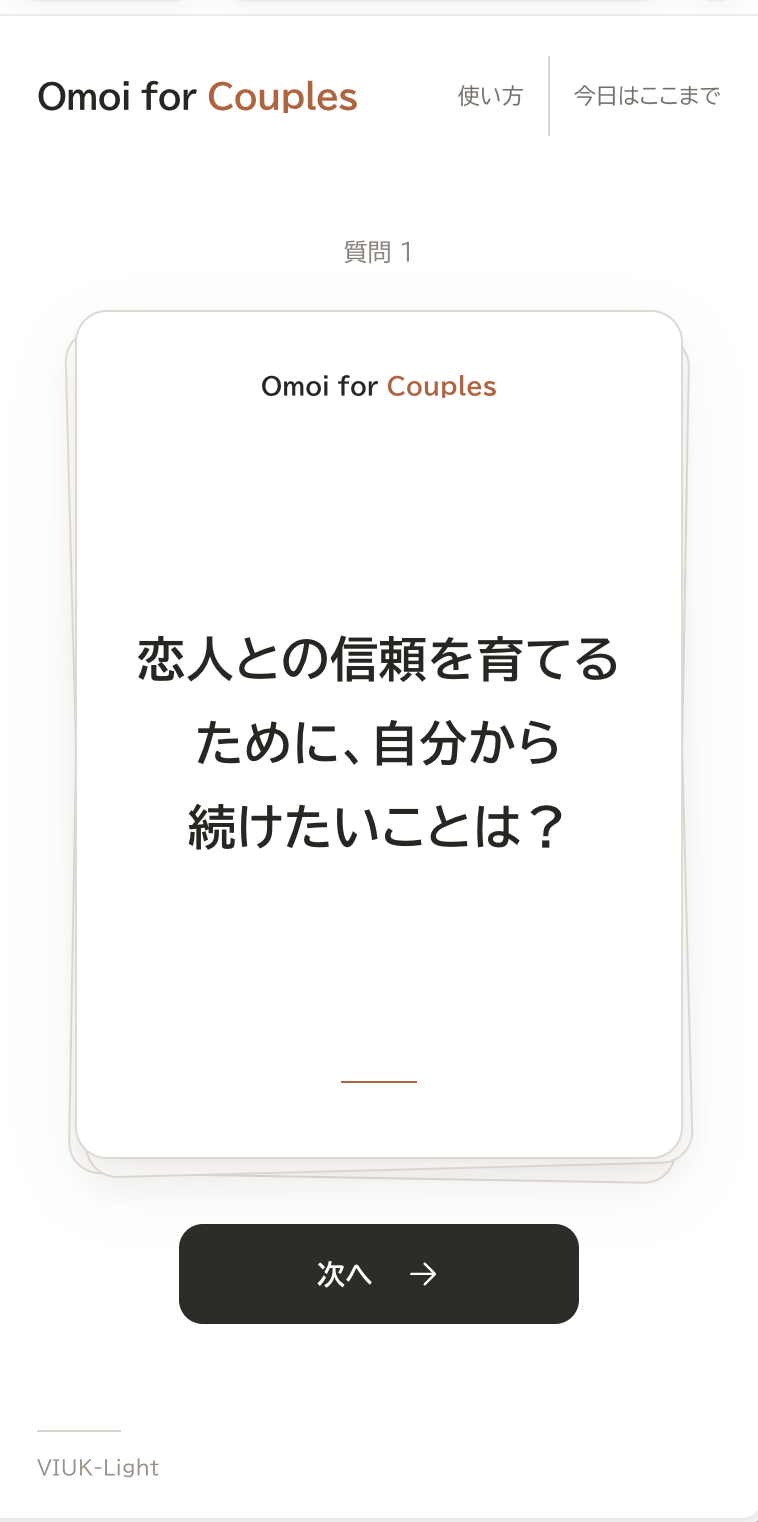
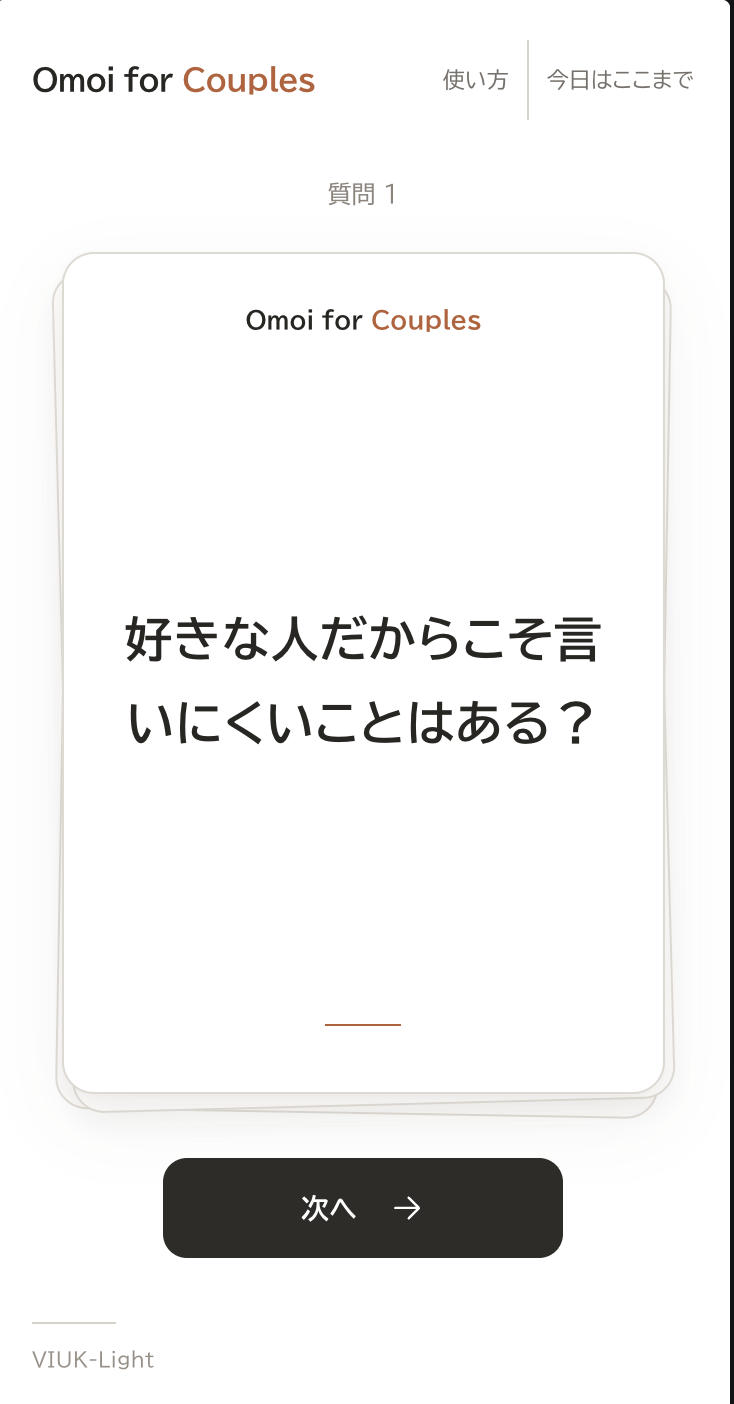
UIの改善

diff --git a/omoi-for.html b/omoi-for.html
@@ -14,7 +14,7 @@
 
     <link rel="stylesheet" href="interior.css?v=20261015-ud-font" />
     <link rel="stylesheet" href="site-motion.css?v=20261016-motion-2">
-    <link rel="stylesheet" href="omoi-for.css?v=20261024-series-colors-2">
+    <link rel="stylesheet" href="omoi-for.css?v=20261024-series-text-1">
     <link rel="stylesheet" href="omoi-for-screens.css?v=20261017-screens">
     <link rel="stylesheet" href="site-nav.css?v=20261017-ja-1">
   </head>
@@ -55,24 +55,17 @@
           <figcaption class="for-deck-caption">気になるシリーズを選ぶ</figcaption>
         </figure>
       </section>
-      <nav class="project-subnav" aria-label="Omoi for Seriesプロジェクトナビゲーション"><a aria-current="page" href="omoi-for.html">概要</a><a href="#series">シリーズ</a><a href="#experience">カードの楽しみ方</a><a href="#flow">使い方</a><a href="#difference">Omoiとの違い</a><a href="omoi-for-docs.html">ドキュメント</a></nav>
+      <nav class="project-subnav" aria-label="Omoi for Seriesプロジェクトナビゲーション"><a aria-current="page" href="omoi-for.html">概要</a><a href="#series">シリーズ</a><a href="#difference">Omoiとの違い</a><a href="omoi-for-docs.html">ドキュメント</a></nav>
 
       <section class="for-section for-showcase for-series-section" id="series" aria-labelledby="for-series-title">
         <header class="section-header">
           <h2 id="for-series-title">あなたに合ったシリーズを選ぶ</h2>
         </header>
-        <nav class="for-series-links" aria-label="各シリーズの特設ページ">
-<a data-series="couples" href="omoi-for-couples.html"><strong>Couples</strong><span>カップル・パートナー</span><span class="for-series-link-label">特設ページへ <span aria-hidden="true">→</span></span></a>
-<a data-series="family" href="omoi-for-family.html"><strong>Family</strong><span>ファミリー・家族向け</span><span class="for-series-link-label">特設ページへ <span aria-hidden="true">→</span></span></a>
-<a data-series="friends" href="omoi-for-friends.html"><strong>Friends</strong><span>友だち同士で</span><span class="for-series-link-label">特設ページへ <span aria-hidden="true">→</span></span></a>
-<a data-series="adults" href="omoi-for-adults.html"><strong>Adults</strong><span>18歳以上向け</span><span class="for-series-link-label">特設ページへ <span aria-hidden="true">→</span></span></a>
-<a data-series="self-care" href="omoi-for-self-care.html"><strong>Self-Care</strong><span>ひとりで振り返る</span><span class="for-series-link-label">特設ページへ <span aria-hidden="true">→</span></span></a>
-</nav>
-        <nav class="for-series-picker" data-for-picker aria-label="シリーズを選ぶ"><a href="#for-series-couples" id="for-tab-couples" data-for-tab data-series="couples" class="is-selected"><span class="for-series-mini" aria-hidden="true"><i></i><b>Omoi</b></span><span>Couples</span><small></small></a>
-<a href="#for-series-family" id="for-tab-family" data-for-tab data-series="family" class=""><span class="for-series-mini" aria-hidden="true"><i></i><b>Omoi</b></span><span>Family</span><small></small></a>
-<a href="#for-series-friends" id="for-tab-friends" data-for-tab data-series="friends" class=""><span class="for-series-mini" aria-hidden="true"><i></i><b>Omoi</b></span><span>Friends</span><small></small></a>
-<a href="#for-series-adults" id="for-tab-adults" data-for-tab data-series="adults" class=""><span class="for-series-mini" aria-hidden="true"><i></i><b>Omoi</b></span><span>Adults</span><small>18歳以上向け</small></a>
-<a href="#for-series-self-care" id="for-tab-self-care" data-for-tab data-series="self-care" class=""><span class="for-series-mini" aria-hidden="true"><i></i><b>Omoi</b></span><span>Self-Care</span><small></small></a></nav>
+        <nav class="for-series-picker" data-for-picker aria-label="シリーズを選ぶ"><a href="#for-series-couples" id="for-tab-couples" data-for-tab data-series="couples" class="is-selected"><span>Couples</span><small></small></a>
+<a href="#for-series-family" id="for-tab-family" data-for-tab data-series="family" class=""><span>Family</span><small></small></a>
+<a href="#for-series-friends" id="for-tab-friends" data-for-tab data-series="friends" class=""><span>Friends</span><small></small></a>
+<a href="#for-series-adults" id="for-tab-adults" data-for-tab data-series="adults" class=""><span>Adults</span><small>18歳以上向け</small></a>
+<a href="#for-series-self-care" id="for-tab-self-care" data-for-tab data-series="self-care" class=""><span>Self-Care</span><small></small></a></nav>
         <div class="for-series-panels" data-for-reveal>
           <article id="for-series-couples" class="for-series-panel" data-for-panel data-series="couples" tabindex="0">
             <div class="for-panel-content">
@@ -165,7 +158,6 @@
             </div>
           </article>
         </div>
-        <p class="for-dataset-note">主質問は5シリーズで706問。2026年10月17日に公開版を確認しています。裏面の追加の問いは、この件数に含めていません。</p>
       </section>
 
       <section class="project-overview for-difference" id="difference">
@@ -175,55 +167,9 @@
         <div class="project-overview-copy">
           <p class="lead-copy">Omoi for Seriesは、相手との会話やひとりでの振り返りを、質問カードから始めるWebシリーズです。</p>
           <p>既存のOmoiとは、実装・質問データ・内部のLevel定義が異なります。画面ではLite / Deepと通常 / 深掘りを選びます。</p><a class="text-link" href="omoi-for-details.html">設計を詳しく見る<span class="for-arrow" aria-hidden="true">→</span></a></div>
-      </section>
+        </section>
 
-      <section class="for-experience" id="experience" aria-labelledby="for-experience-title">
-        <div class="for-experience-copy">
-          <h2 id="for-experience-title">質問の内容と、<br>進め方を選ぶ。</h2>
-          <div class="for-mode-controls">
-            <fieldset class="for-mode-group">
-              <legend>質問の踏み込み度</legend>
-              <div class="for-segment"><button type="button" data-for-intensity="lite" aria-pressed="true">Lite</button><button type="button" data-for-intensity="deep" aria-pressed="false">Deep</button></div>
-            </fieldset>
-            <fieldset class="for-mode-group">
-              <legend>会話のスタイル</legend>
-              <div class="for-segment"><button type="button" data-for-style="normal" aria-pressed="false">通常</button><button type="button" data-for-style="deep" aria-pressed="true">深掘り</button></div>
-            </fieldset>
-          </div>
-          <p class="for-static-note">Lite / Deepは質問の踏み込み度、通常 / 深掘りは追加の問いの表示方法です。ふたつを別々に選べます。</p>
-          <p class="for-demo-help" data-for-demo-help>気軽な問いにも、もう一つの視点を。</p>
-        </div>
-        <div class="for-demo-visual" data-for-reveal>
-          <div class="for-demo-scene" aria-hidden="true">
-            <div class="for-demo-preview-back"><span>＋</span><small>追加の問い</small></div>
-            <div class="for-demo-card" data-for-demo-card>
-              <div class="for-demo-face for-demo-front for-cover"><span class="for-cover-brand">Omoi for</span><span class="for-cover-name" data-for-current-name>Couples</span><svg class="for-cover-rings" viewBox="0 0 130 170" aria-hidden="true"><circle cx="47" cy="48" r="40"/><circle cx="82" cy="73" r="40"/><path d="M65 124v46"/></svg><span class="for-cover-age" data-for-demo-intensity-label>Lite</span></div>
-              <div class="for-demo-face for-demo-back"><span class="for-plus">＋</span><p>追加の問い</p>
-              </div>
-            </div>
-          </div>
-<button type="button" class="for-demo-flip" data-for-flip aria-pressed="false" aria-describedby="for-demo-status"><span data-for-flip-label>カードをめくる</span><span aria-hidden="true">↗</span></button>
-<p class="for-demo-note">カードの動きのイメージ</p>
-          <p class="for-demo-status" id="for-demo-status" data-for-demo-status role="status">Lite・深掘り / 表面</p>
-        </div>
-      </section>
 
-      <section class="for-flow-section" id="flow" aria-labelledby="for-flow-title">
-        <div class="section-header">
-          <h2 id="for-flow-title">3ステップで始める</h2>
-        </div>
-        <ol class="for-flow-list">
-          <li><span>01</span><div><strong>シリーズを選ぶ</strong><p>話す相手や、ひとりで振り返る目的に合ったシリーズを選びます。</p>
-            </div>
-          </li>
-          <li><span>02</span><div><strong>内容と進め方を選ぶ</strong><p>Lite / Deepで質問の踏み込み度を、通常 / 深掘りで追加の問いの表示を選びます。</p>
-            </div>
-          </li>
-          <li><span>03</span><div><strong>カードを一枚ずつ進める</strong><p>「次へ」で進みます。答えずに進むことも、「今日はここまで」で終えることもできます。</p>
-            </div>
-          </li>
-        </ol><a class="text-link" href="https://omoi-for.viuk-light.org/howto.html">使い方を詳しく見る<span class="for-arrow" aria-hidden="true">→</span></a>
-</section>
 
       <section class="product-resources">
         <div>
@@ -259,7 +205,7 @@
 
     </footer>
   <script defer src="site-nav.js?v=20261017-ja-1"></script>
-  <script defer src="omoi-for.js?v=20261017-screens"></script>
+  <script defer src="omoi-for.js?v=20261024-subnav-active-1"></script>
 <script defer src="site-motion.js?v=20261016-motion-2"></script>
 </body>
 </html>

diff --git a/omoi-for.css b/omoi-for.css
@@ -99,6 +99,11 @@
 .for-deck-card:focus-visible { z-index: 20; outline: 3px solid var(--for-deep); outline-offset: 8px; }
 .for-deck-caption { text-align: center; color: var(--muted); font-size: 11px; margin-top: 6px; }
 .omoi-for-page .project-subnav { justify-content: center; gap: 14px 36px; padding-block: 16px; }
+.omoi-for-page .project-subnav a[aria-current] {
+  color: var(--accent);
+  font-weight: 700;
+  text-decoration-thickness: 2px;
+}
 .for-section { padding-block: 100px; }
 .omoi-for-page .for-section > .section-header { justify-content: center; text-align: center; margin-bottom: 42px; }
 .omoi-for-page .for-section > .section-header h2 { font-size: clamp(30px, 3.7vw, 54px); letter-spacing: -.035em; }
@@ -126,7 +131,7 @@
   display: flex;
   flex-direction: column;
   align-items: center;
-  gap: 16px;
+  gap: 4px;
   padding: 22px 8px 26px;
   min-width: 0;
   text-decoration: none;
@@ -147,36 +152,6 @@
 }
 .for-series-picker a.is-selected::after { transform: scaleX(1); }
 .for-series-picker small { font-size: 11px; color: var(--muted); min-height: 15px; }
-.for-series-mini {
-  position: relative;
-  display: block;
-  flex: none;
-  width: 60px;
-  height: 94px;
-  border: 1px solid #e4e4e1;
-  border-radius: 3px;
-  background: #fff;
-  box-shadow: 3px 3px 0 #e8e7e4, 0 8px 14px -7px #20334444;
-  transition: border-color .3s ease;
-}
-.for-series-picker a::before {
-  content: "";
-  position: absolute;
-  left: 50%;
-  top: 69px;
-  width: 130px;
-  height: 130px;
-  background: var(--for-tint);
-  border-radius: 50%;
-  z-index: -1;
-  transform: translate(-50%, -50%) scale(.5);
-  opacity: 0;
-  transition: opacity .4s ease, transform .6s var(--motion-ease);
-}
-.for-series-picker a.is-selected::before { opacity: 1; transform: translate(-50%, -50%) scale(1); }
-.for-series-picker a.is-selected .for-series-mini { border-color: var(--for-color); }
-.for-series-mini b { position: absolute; inset: 0; display: grid; place-items: center; font-size: 9px; font-weight: 400; color: var(--for-deep); }
-.for-series-mini i { position: absolute; inset: 7px; border: 1px solid var(--for-color); border-radius: 25% 65% 30% 60%; opacity: .75; }
 .for-series-panel {
   display: grid;
   grid-template-columns: 1fr 1fr;
@@ -187,6 +162,7 @@
   border-bottom: 1px solid var(--line);
   scroll-margin-top: calc(var(--motion-nav-height) + 28px);
 }
+.for-series-panel[hidden] { display: none; }
 .for-enhanced .for-series-panel { border-bottom: 0; }
 .for-series-panel .for-panel-brand { margin-bottom: 0; font-size: 23px; letter-spacing: .01em; }
 .for-series-panel h3 {
@@ -340,7 +316,6 @@
 }
 @media (hover: hover) and (pointer: fine) and (prefers-reduced-motion: no-preference) {
   .motion-ready:not(.motion-paused):not(.motion-reduced) .for-deck-card:hover { --card-lift: -28px; z-index: 15; }
-  .for-series-picker a:hover .for-series-mini { border-color: var(--for-deep); }
 }
 @media (max-width: 1100px) {
   .for-card-deck { --for-spread: 44px; height: 520px; }
@@ -360,9 +335,6 @@
   .for-section { padding-block: 64px; }
   .for-series-picker { display: flex; overflow-x: auto; gap: 14px; scroll-snap-type: x proximity; padding-top: 10px; }
   .for-series-picker a { flex: 0 0 104px; scroll-snap-align: center; font-size: 17px; }
-  .for-series-mini { width: 48px; height: 74px; }
-  .for-series-picker a::before { top: 59px; width: 112px; height: 112px; }
-  .for-series-mini b { font-size: 8px; }
   .for-series-panel { min-height: auto; gap: 28px; padding-block: 48px; }
   .for-series-panel h3 { font-size: clamp(38px, 7vw, 60px); }
   .for-panel-catch { font-size: 24px; }
@@ -389,7 +361,7 @@
   .for-cover-age { font-size: 9px; }
   .for-section > .section-header h2 { font-size: 29px; }
   .for-series-picker { gap: 8px; }
-  .for-series-picker a { flex-basis: 90px; font-size: 15px; gap: 13px; padding-inline: 2px; }
+  .for-series-picker a { flex-basis: 90px; font-size: 15px; padding-inline: 2px; }
   .for-series-panel { grid-template-columns: 1fr; padding: 35px 0 20px; gap: 10px; }
   .for-series-panel h3 { font-size: 54px; }
   .for-panel-brand { font-size: 18px !important; }

diff --git a/omoi-for.js b/omoi-for.js
@@ -1,6 +1,31 @@
 (() => {
   const page = document.querySelector('.omoi-for-page');
   if (!page) return;
+  const subnav = page.querySelector('.project-subnav');
+  if (subnav) {
+    const sections = [...subnav.querySelectorAll('a')].flatMap(link => {
+      const href = link.getAttribute('href');
+      const target = href === 'omoi-for.html' ? page.querySelector('.for-hero')
+        : href?.startsWith('#') ? page.querySelector(href) : null;
+      return target ? [{ link, target }] : [];
+    });
+    const updateSubnav = () => {
+      const headerHeight = document.querySelector('.site-header')?.getBoundingClientRect().height || 0;
+      const navHeight = subnav.getBoundingClientRect().height;
+      const marker = headerHeight + navHeight + 24;
+      let active = sections[0];
+      sections.forEach(section => {
+        if (section.target.getBoundingClientRect().top <= marker) active = section;
+      });
+      sections.forEach(section => {
+        if (section === active) section.link.setAttribute('aria-current', 'location');
+        else section.link.removeAttribute('aria-current');
+      });
+    };
+    window.addEventListener('scroll', updateSubnav, { passive: true });
+    window.addEventListener('resize', updateSubnav);
+    updateSubnav();
+  }
   const cards = [...page.querySelectorAll('[data-for-card]')];
   const tabs = [...page.querySelectorAll('[data-for-tab]')];
   const panels = [...page.querySelectorAll('[data-for-panel]')];
@@ -8,12 +33,11 @@
   const hero = page.querySelector('.for-hero');
   const demo = page.querySelector('[data-for-demo-card]');
   const flipButton = page.querySelector('[data-for-flip]');
-  if (!cards.length || cards.length !== tabs.length || cards.length !== panels.length ||
-      !picker || !hero || !demo || !flipButton) return;
+  if (!tabs.length || tabs.length !== panels.length || !picker) return;
 
   const root = document.documentElement;
   const reducedMotion = window.matchMedia('(prefers-reduced-motion: reduce)');
-  const series = cards.map(card => ({ key: card.dataset.series, name: card.dataset.seriesName }));
+  const series = panels.map(panel => ({ key: panel.dataset.series, name: panel.dataset.series }));
   const visualOrder = ['friends', 'family', 'couples', 'adults', 'self-care'];
   const animations = new Set();
   const state = { series: 'couples', intensity: 'lite', style: 'deep', flipped: false };
@@ -69,6 +93,7 @@
   };
 
   const renderDemo = () => {
+    if (!demo || !flipButton) return;
     const selected = series.find(item => item.key === state.series);
     const intensityName = state.intensity === 'lite' ? 'Lite' : 'Deep';
     const styleName = state.style === 'normal' ? '通常' : '深掘り';
@@ -196,7 +221,7 @@
       renderDemo();
     });
   });
-  flipButton.addEventListener('click', () => {
+  flipButton?.addEventListener('click', () => {
     if (state.style !== 'deep') return;
     markManual();
     state.flipped = !state.flipped;
@@ -220,7 +245,7 @@
     { opacity: 1, transform: poses[i] }
   ], 1200, i * 70));
 
-  if ('IntersectionObserver' in window) {
+  if (hero && 'IntersectionObserver' in window) {
     const heroObserver = new IntersectionObserver(entries => {
       const entry = entries.find(item => item.target === hero);
       if (!entry) return;

diff --git a/projects.html b/projects.html
@@ -37,7 +37,7 @@
         </div>
       </section>
       <nav class="project-directory-index" aria-label="プロジェクトの目次">
-  <a href="#x-filtering-system">SafeSearch 4 — X-filtering system</a><a href="#omoi">Omoi</a><a href="#omoi-for">Omoi for series</a><a href="#kizuna">Kizuna</a>
+  <a href="#x-filtering-system">SafeSearch 4 — X-filtering system</a><a href="#omoi">Omoi</a><a href="#omoi-for">Omoi for series</a>
 </nav>
       <section class="projects-section" aria-label="公開プロジェクト">
 
@@ -144,38 +144,7 @@
 
           </article>
 
-          <article class="project-directory-row" id="kizuna">
-
-            <figure class="project-directory-media">
-        <a href="kizuna.html"><img src="assets/kizuna/conversation.webp" alt="Kizunaの会話と物語の画面" loading="lazy" decoding="async"></a>
-        <figcaption>Kizunaの会話画面</figcaption>
-
-            </figure>
-
-            <div class="project-directory-copy">
-
-              <h2><a href="kizuna.html">Kizuna</a></h2>
-
-              <p class="project-directory-summary">AIとの会話から、関係や物語を育てる。</p>
-
-              <p>キャラクター、世界観、記憶を扱いながら、利用者のペースで会話を続けるアプリです。</p>
-
-              <dl class="project-directory-facts">
-                <div>
-                  <dt>対象環境</dt>
-                  <dd>iOS / macOS</dd>
-                </div>
-                <div>
-                  <dt>現在の対応</dt>
-                  <dd>保守対応。新機能開発は最小限とし、重大な不具合やセキュリティ上の問題に対応します。</dd>
-                </div>
-              </dl>
-
-              <div class="project-directory-actions"><a class="button primary" href="kizuna.html">Kizunaについて</a><a href="kizuna-docs.html">使い方・資料</a><a class="external" href="https://github.com/VIUK-Light/Kizuna">GitHub</a></div>
-
-            </div>
-
-          </article>
+        
 
         </div>
       </section>

diff --git a/omoi-for-couples.html b/omoi-for-couples.html
@@ -16,7 +16,7 @@
   <a class="skip-link" href="#main-content">本文へ移動</a>
   <header class="site-header">
     <a class="brand" href="index.html" aria-label="VIUK-Light ホーム">
-      <img class="brand-logo" src="assets/viuk-light-logo.png?v=20260825" alt="VIUK-Light公式ロゴ" width="712" height="638" />
+      <img class="brand-logo" src="assets/viuk-light-logo.png?v=20260825" alt="VIUK-Light公式ロゴ" width="762" height="638" />
       <span>VIUK-Light</span>
     </a>
     <nav class="site-nav" aria-label="メインナビゲーション">
@@ -95,7 +95,7 @@
         </article>
       </div>
     </section>
-    <section class="for-detail-section" id="how-to-use" aria-labelledby="howto-title">
+    <section class="for-detail-section2" id="how-to-use" aria-labelledby="howto-title">
       <div class="section-header">
         <h2 id="howto-title">使い方</h2>
       </div>
